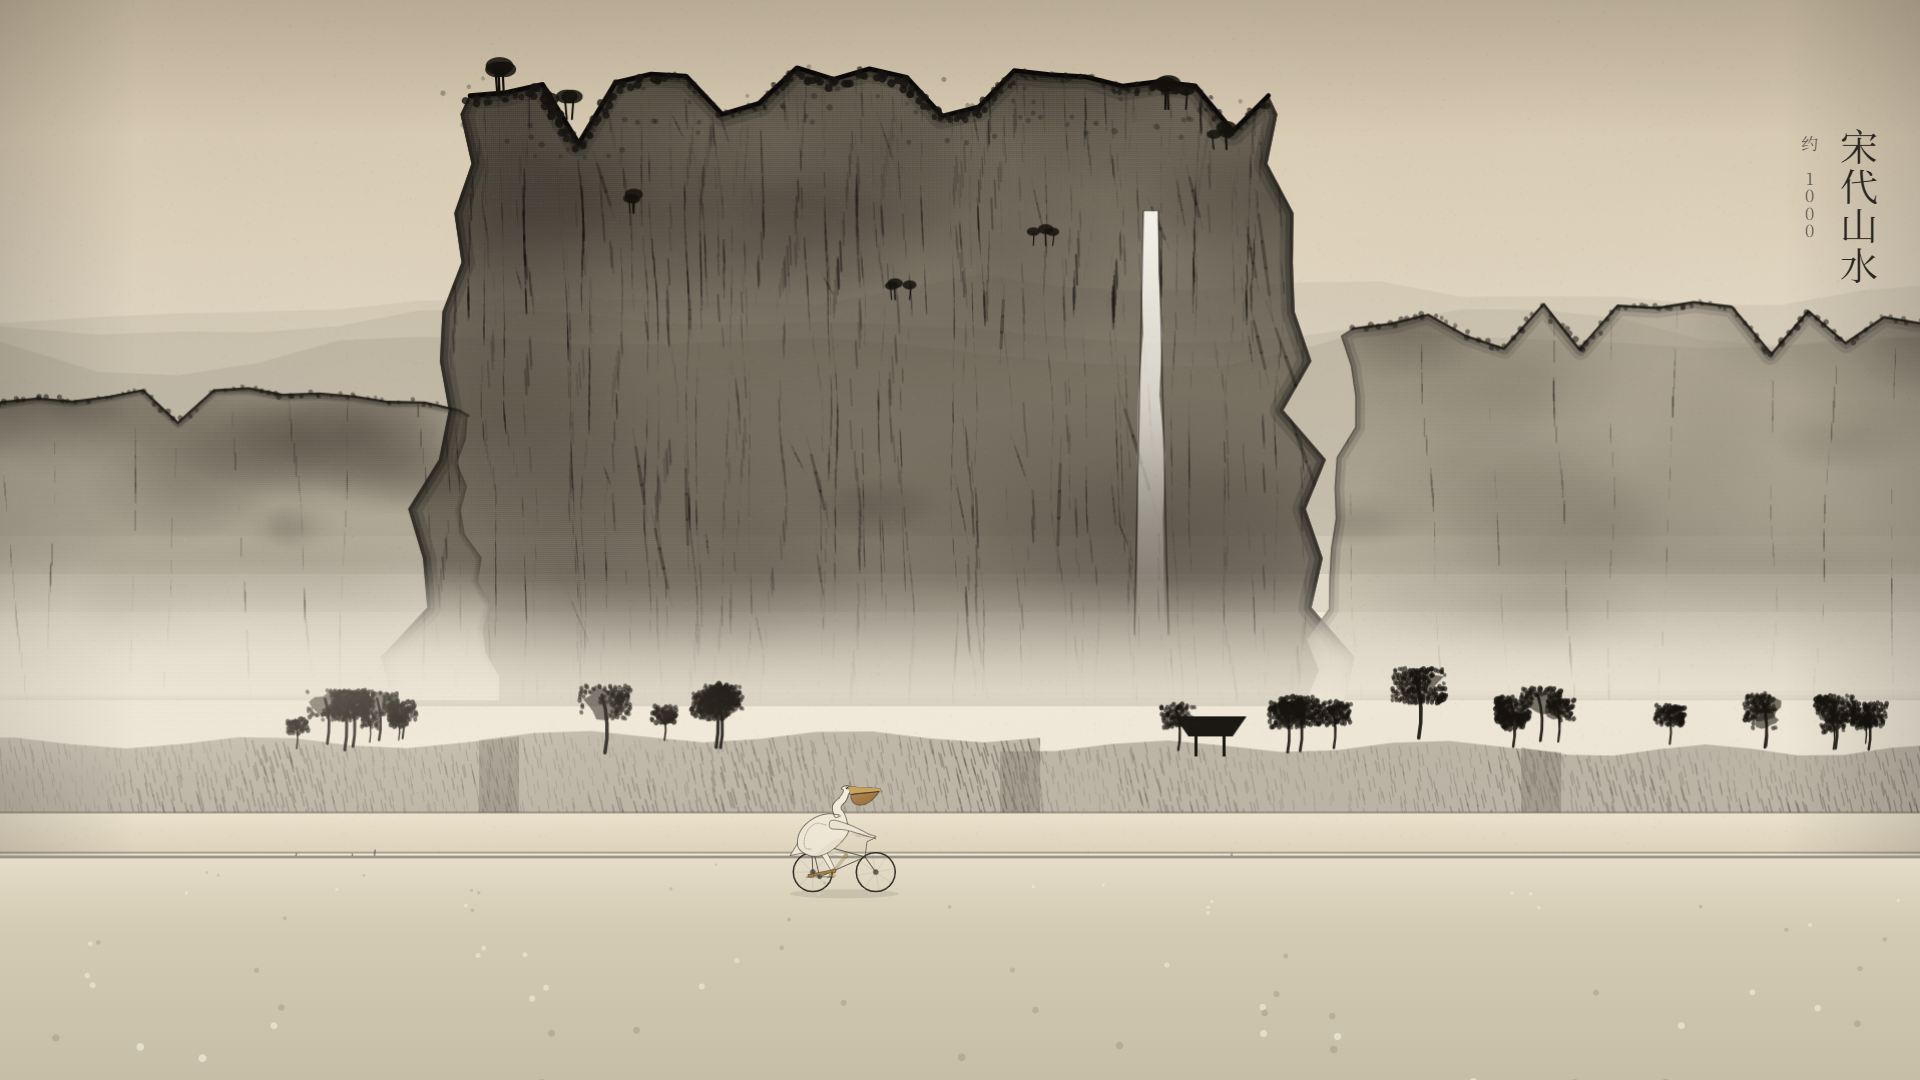
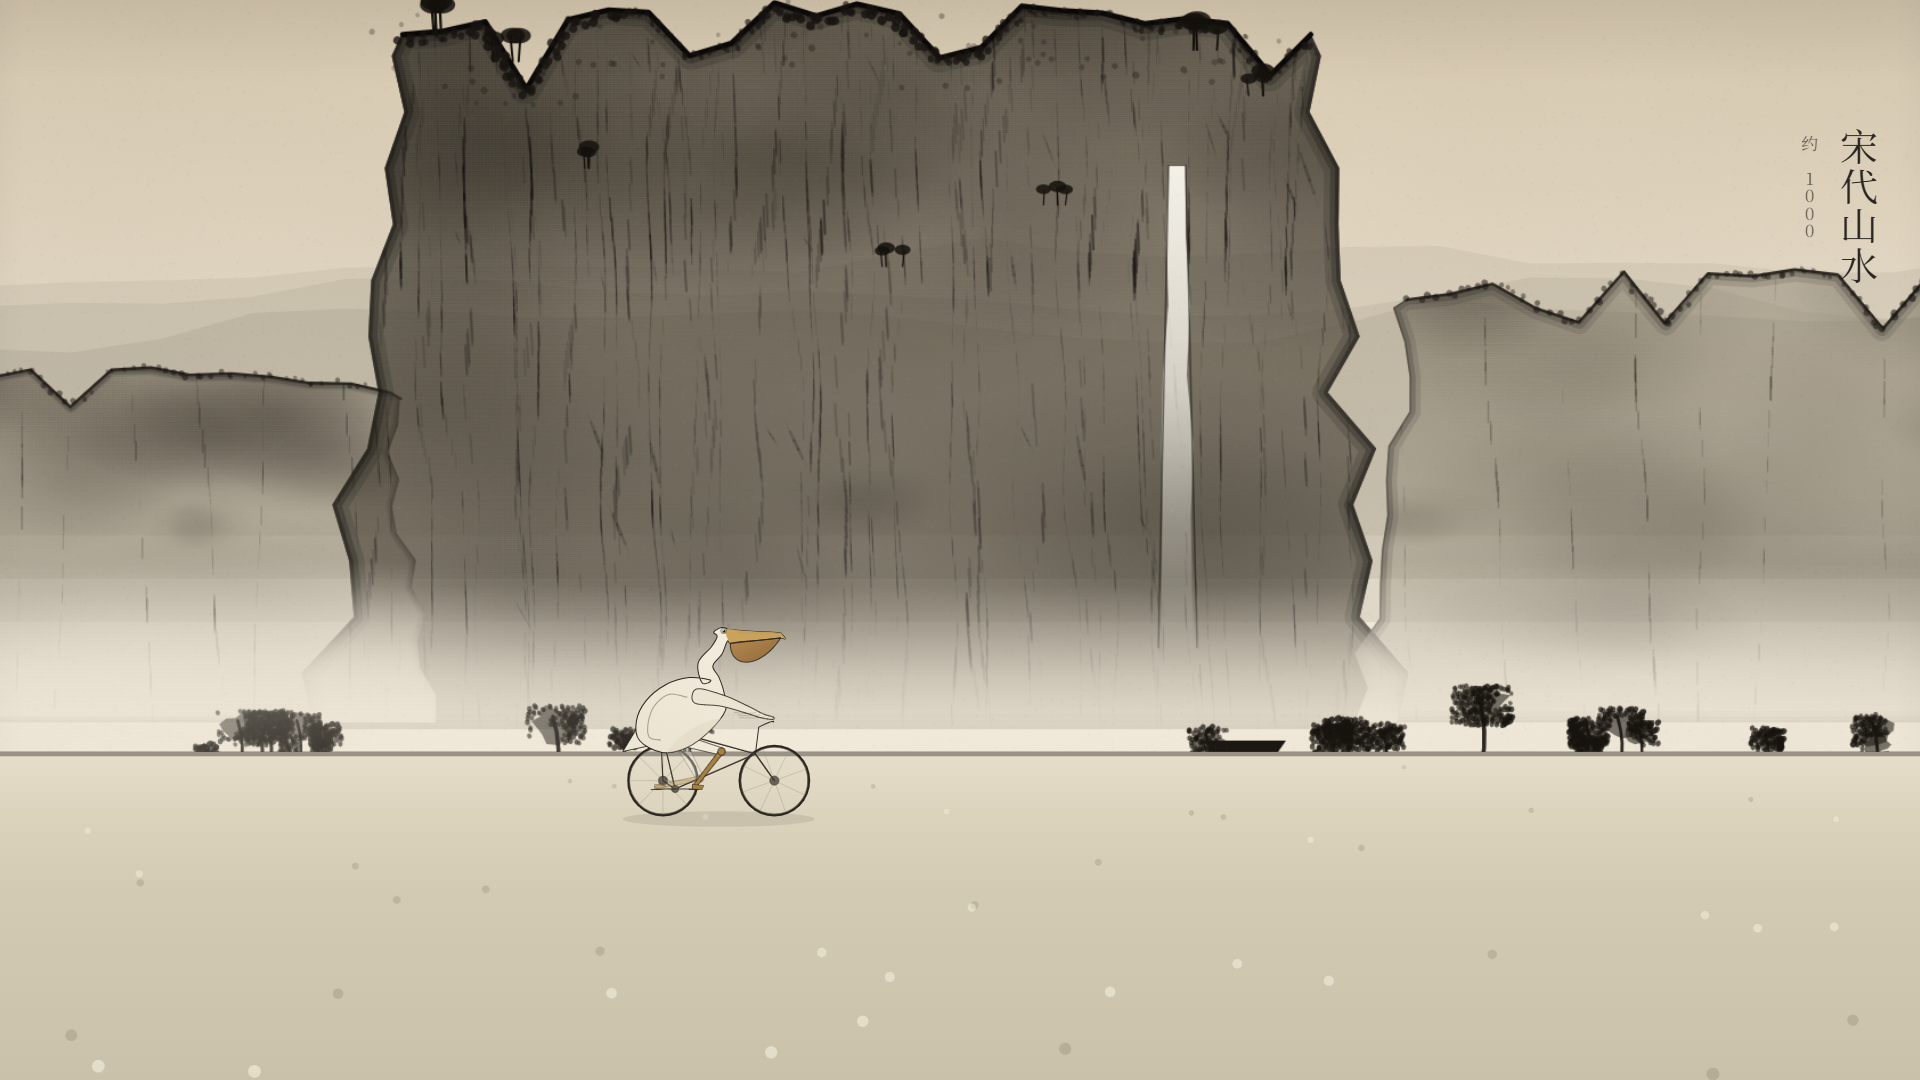
05 宋山水：裂隙收短改斜，侧峰锯齿放缓

diff --git a/src/scenes/song.js b/src/scenes/song.js
@@ -101,8 +101,9 @@
         K.layerWash(c, main, { n: 12, alpha: 0.11, tone: '#191612', seed: 52, bias: 1.2 });
         K.layerWash(c, main, { n: 9, alpha: 0.07, tone: '#a29883', seed: 53, bias: 0.25 });
 
-        K.crevice(c, main, { n: 16, len: 130, ang: 1.42, thick: 3.2, alpha: 0.34, seed: 54 });
-        K.crevice(c, main, { n: 26, len: 60, ang: 1.30, thick: 1.8, alpha: 0.26, seed: 55 });
+        // 裂隙不能长：130px 的竖线在崖面上就是一道道刮痕。改成 60px、偏斜 25°。
+        K.crevice(c, main, { n: 10, len: 60, ang: 1.22, thick: 2.6, alpha: 0.22, seed: 54 });
+        K.crevice(c, main, { n: 22, len: 34, ang: 1.18, thick: 1.4, alpha: 0.18, seed: 55 });
 
         // 皴：短笔，只在崖顶一带密
         K.cunFlow(c, main, { lines: 40, per: 64, len: [6, 22], spread: 18, slant: 0.04, alpha: 0.18, thick: 1.0, seed: 71 });
